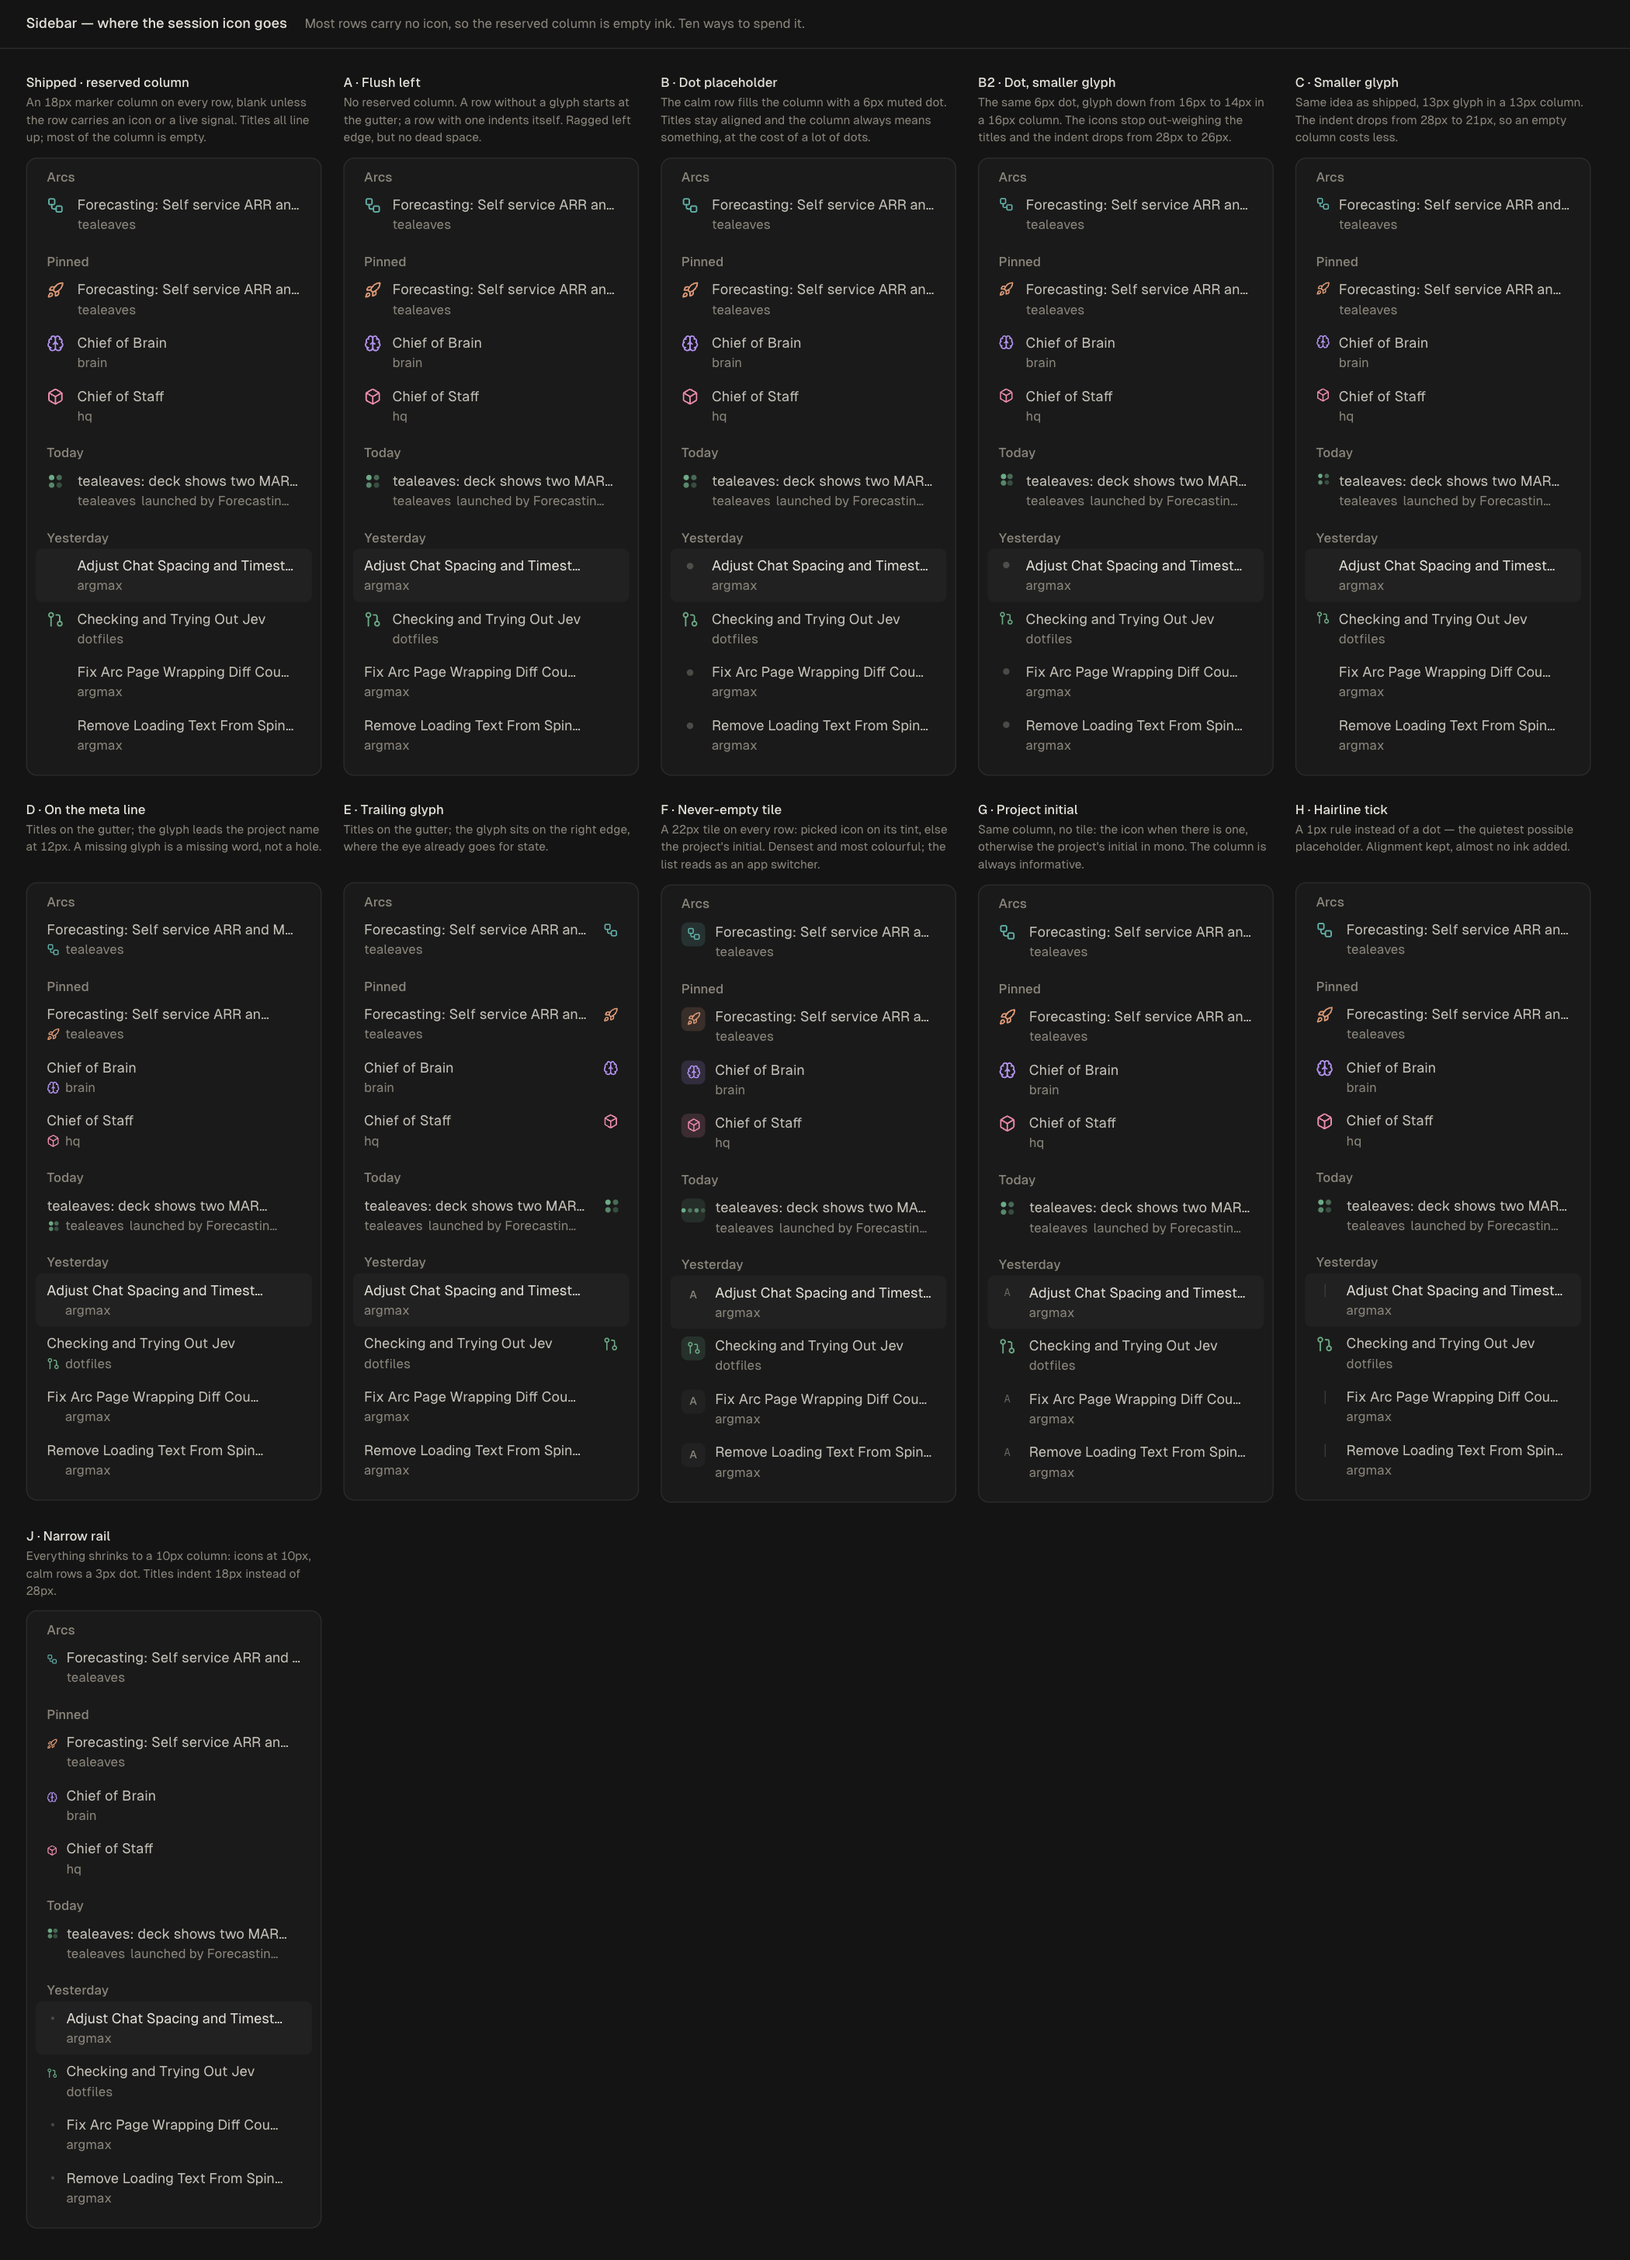
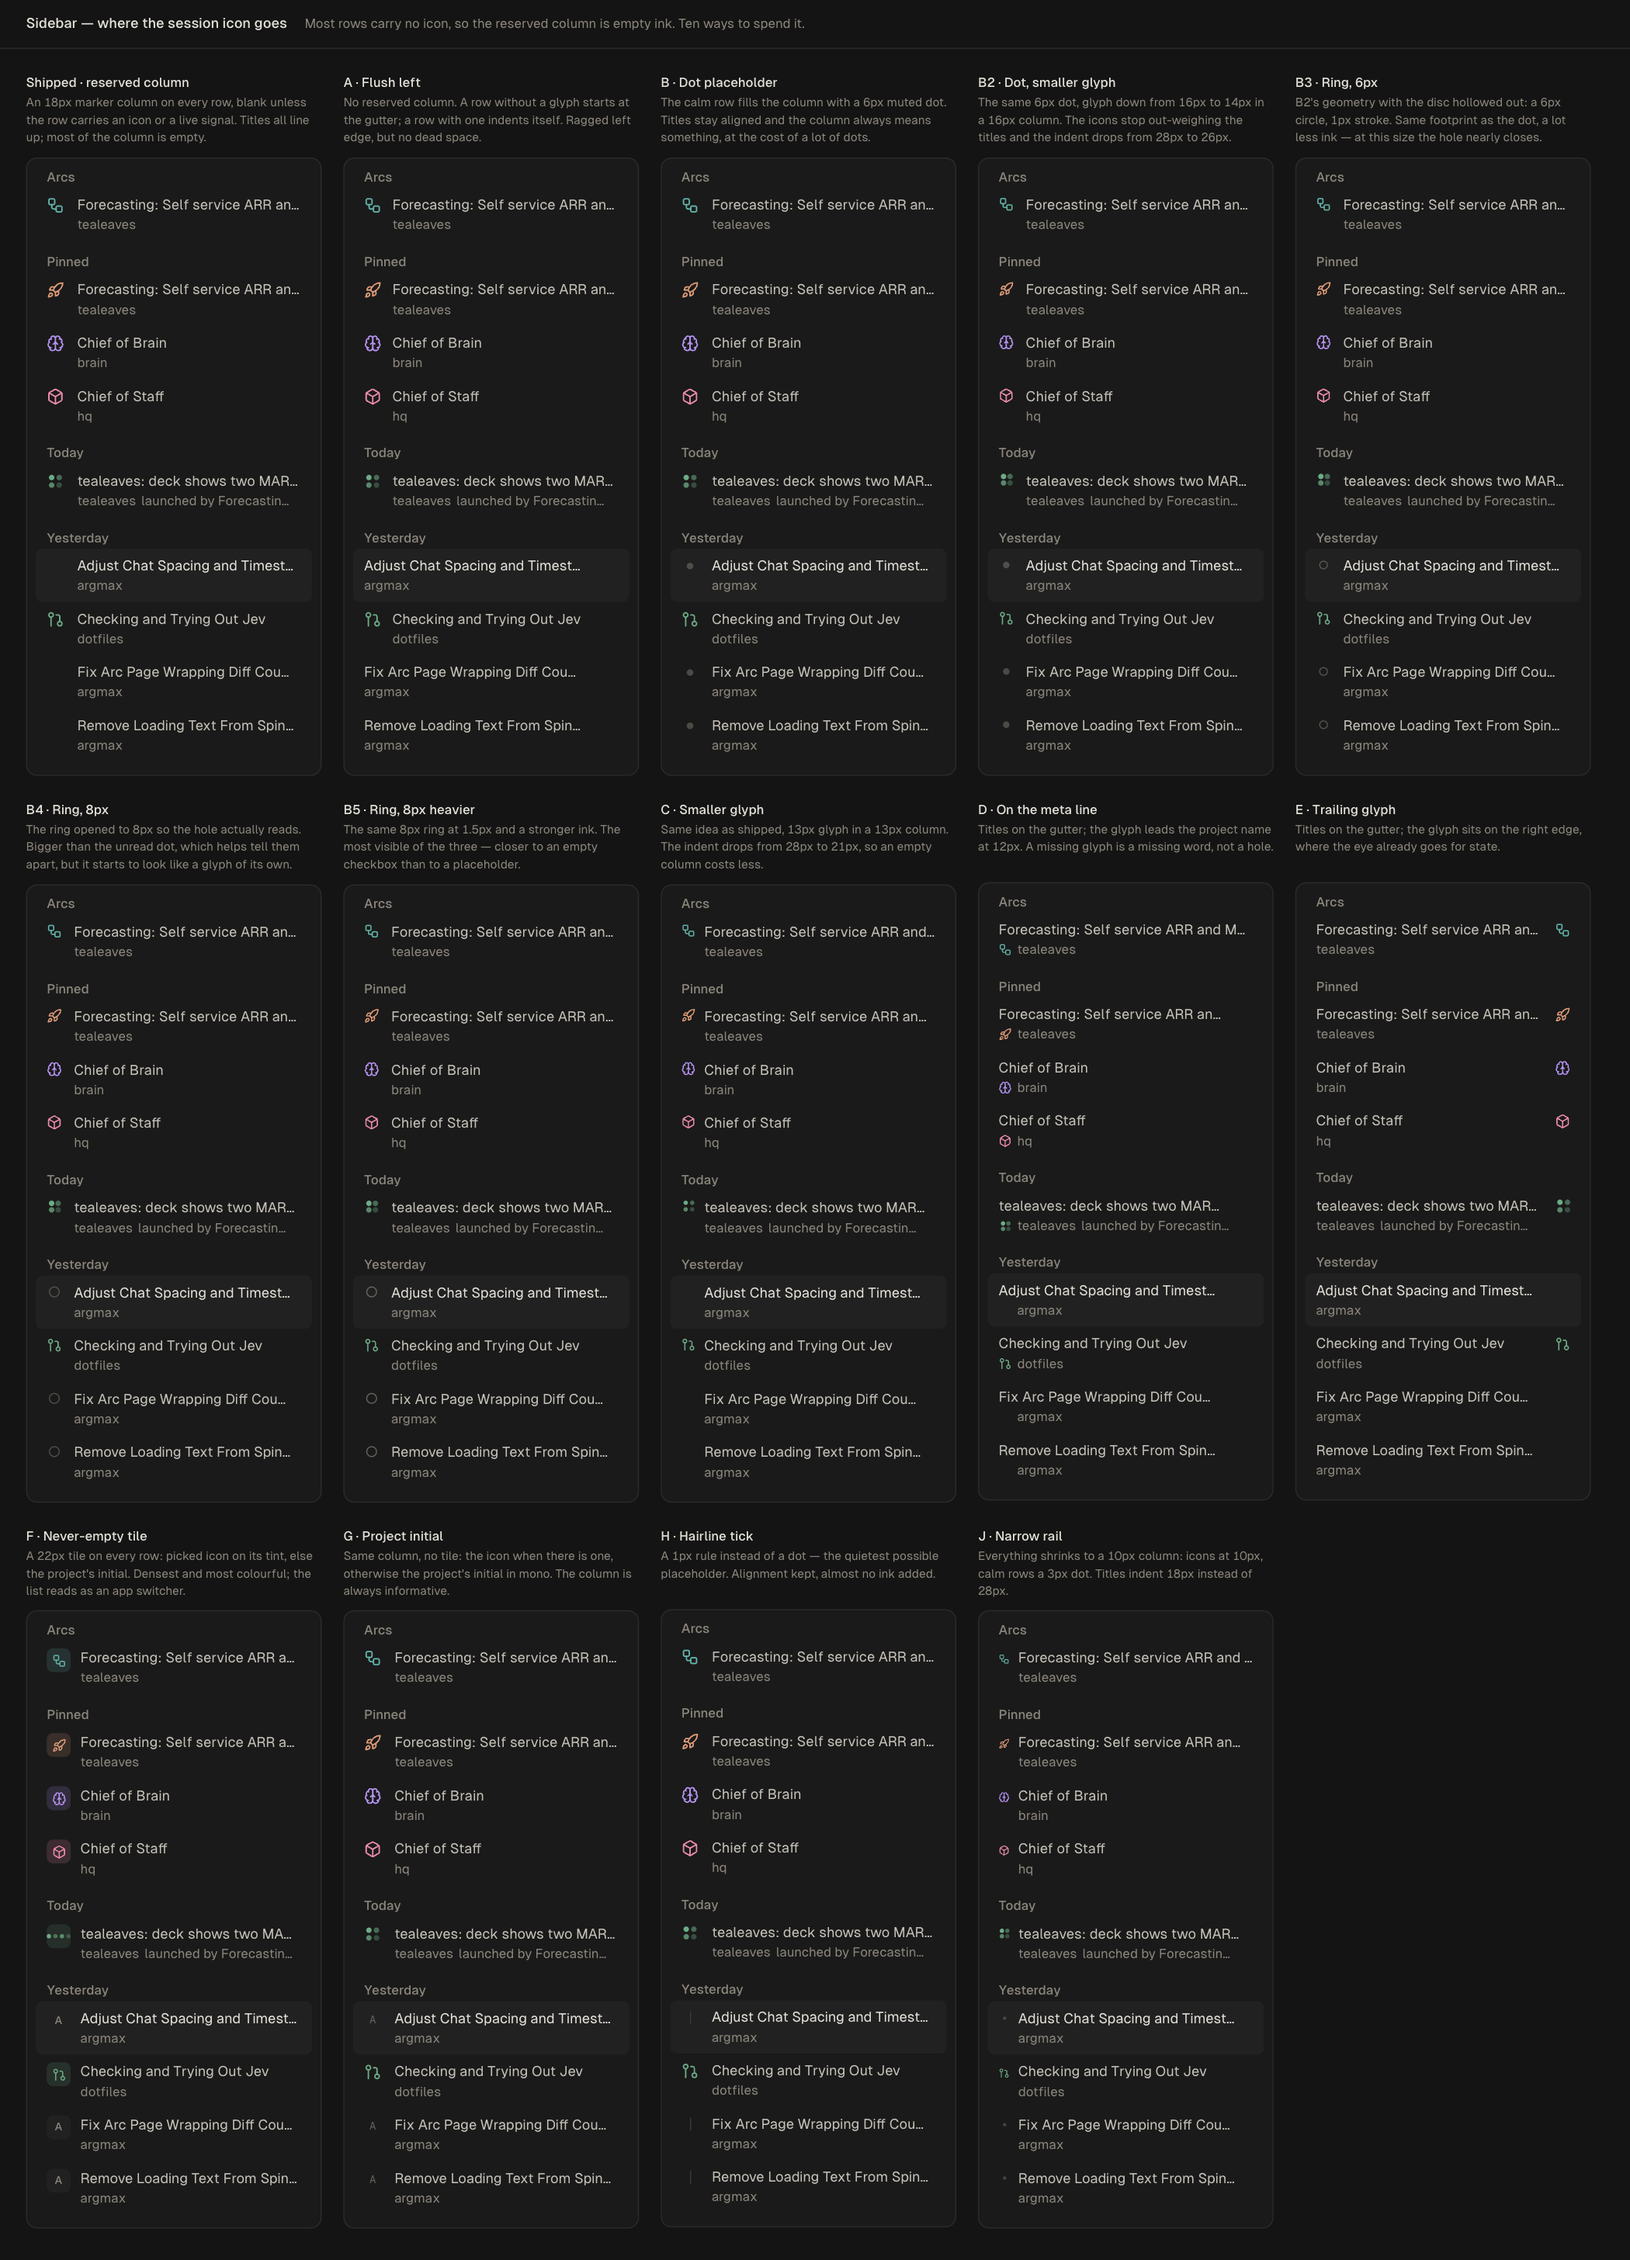
style(sidebar): draw the calm row's placeholder as a ring, not a dot
The filled 6px dot that shipped an hour ago is the unread marker's exact
shape, so a calm row and "a response landed here" were separated only by
tint. The placeholder is now an 8px ring with a 1px muted stroke: hollow
against filled is a difference that still reads at this size, and it frees
the unread dot to keep the accent to itself.

docs/design/sidebar-icon-gutter carries the three ring weights the 8px one
was picked from.

diff --git a/docs/design/sidebar-icon-gutter/index.html b/docs/design/sidebar-icon-gutter/index.html
@@ -96,6 +96,25 @@
         background: var(--muted); opacity: 0.45;
       }
 
+      /* ---------- B3/B4/B5 · the placeholder as a ring, not a disc ----------
+         All three run B2's geometry (14px glyph, 16px column); only the mark
+         in the calm cell changes. A ring is hollow, so it reads as "nothing
+         here yet" rather than as the filled accent dot unread already owns. */
+      .v-ring1 .row, .v-ring2 .row, .v-ring3 .row { grid-template-columns: 16px minmax(0, 1fr); gap: 9px; }
+      .v-ring1 .lead, .v-ring2 .lead, .v-ring3 .lead { width: 14px; height: 14px; }
+      .v-ring1 .g, .v-ring2 .g, .v-ring3 .g { width: 14px; height: 14px; }
+      .v-ring1 .nest, .v-ring2 .nest, .v-ring3 .nest {
+        grid-template-columns: 5px 5px; grid-template-rows: 5px 5px; gap: 1px;
+      }
+      .v-ring1 .lead:empty::before,
+      .v-ring2 .lead:empty::before,
+      .v-ring3 .lead:empty::before {
+        content: ""; border-radius: 50%; border-style: solid; border-color: var(--muted);
+      }
+      .v-ring1 .lead:empty::before { width: 6px; height: 6px; border-width: 1px; opacity: 0.55; }
+      .v-ring2 .lead:empty::before { width: 8px; height: 8px; border-width: 1px; opacity: 0.5; }
+      .v-ring3 .lead:empty::before { width: 8px; height: 8px; border-width: 1.5px; opacity: 0.7; }
+
       /* ---------- C · smaller glyph, narrower column ---------- */
       .v-small .row { grid-template-columns: 13px minmax(0, 1fr); gap: 8px; }
       .v-small .lead { width: 13px; height: 13px; }
@@ -208,6 +227,9 @@
         ["flush", "A · Flush left", "No reserved column. A row without a glyph starts at the gutter; a row with one indents itself. Ragged left edge, but no dead space."],
         ["dot", "B · Dot placeholder", "The calm row fills the column with a 6px muted dot. Titles stay aligned and the column always means something, at the cost of a lot of dots."],
         ["dot2", "B2 · Dot, smaller glyph", "The same 6px dot, glyph down from 16px to 14px in a 16px column. The icons stop out-weighing the titles and the indent drops from 28px to 26px."],
+        ["ring1", "B3 · Ring, 6px", "B2's geometry with the disc hollowed out: a 6px circle, 1px stroke. Same footprint as the dot, a lot less ink — at this size the hole nearly closes."],
+        ["ring2", "B4 · Ring, 8px", "The ring opened to 8px so the hole actually reads. Bigger than the unread dot, which helps tell them apart, but it starts to look like a glyph of its own."],
+        ["ring3", "B5 · Ring, 8px heavier", "The same 8px ring at 1.5px and a stronger ink. The most visible of the three — closer to an empty checkbox than to a placeholder."],
         ["small", "C · Smaller glyph", "Same idea as shipped, 13px glyph in a 13px column. The indent drops from 28px to 21px, so an empty column costs less."],
         ["meta", "D · On the meta line", "Titles on the gutter; the glyph leads the project name at 12px. A missing glyph is a missing word, not a hole."],
         ["trail", "E · Trailing glyph", "Titles on the gutter; the glyph sits on the right edge, where the eye already goes for state."],

diff --git a/src/renderer/components/SidebarSessionRow.tsx b/src/renderer/components/SidebarSessionRow.tsx
@@ -435,7 +435,7 @@ function SidebarSessionRowInner({
   // leading glyph except a turn in flight: the working nest stays so live
   // activity still reads, and the accent dot takes the cell the moment it
   // ends. Opening the chat clears unread and the icon or status marker
-  // returns. Without a custom icon, a calm row draws the muted lead dot and
+  // returns. Without a custom icon, a calm row draws the muted lead ring and
   // only a live signal (running, awaiting input, failed, open or merged PR)
   // earns a glyph. The marker column is the same width either way so every
   // title lines up.
@@ -480,7 +480,7 @@ function SidebarSessionRowInner({
           className={`session-link session-link-renaming${subtitle ? " session-link-stacked" : ""}${prCountBadge ? " session-link-has-pr-count" : ""}`}
           data-status={workspace.state}
         >
-          {leadingGlyph ?? <span className="session-link-lead-dot" aria-hidden="true" />}
+          {leadingGlyph ?? <span className="session-link-lead-ring" aria-hidden="true" />}
           <span className={subtitle ? "session-link-text" : undefined}>
             <input
               ref={renameInputRef}
@@ -544,7 +544,7 @@ function SidebarSessionRowInner({
               });
             }}
           >
-            {leadingGlyph ?? <span className="session-link-lead-dot" aria-hidden="true" />}
+            {leadingGlyph ?? <span className="session-link-lead-ring" aria-hidden="true" />}
             {subtitle || importedProvider || launchedByLabel || arcLabel ? (
               <span className="session-link-text">
                 <span>{displayLabel}</span>

diff --git a/src/renderer/components/SidebarSessionRow.test.tsx b/src/renderer/components/SidebarSessionRow.test.tsx
@@ -519,7 +519,7 @@ describe("SidebarSessionRow", () => {
     expect(screen.getByLabelText("2 pull requests: 1 open · 1 merged")).toHaveTextContent("2");
   });
 
-  it("gives an idle completed row the lead dot, with the state still in its title", () => {
+  it("gives an idle completed row the lead ring, with the state still in its title", () => {
     render(
       <SidebarSessionRow
         workspace={workspaceBase}
@@ -529,11 +529,11 @@ describe("SidebarSessionRow", () => {
 
     const row = screen.getByTitle(/Build the dashboard — complete/);
     // No status glyph: a done session is not worth a column of checks. The
-    // marker column keeps its width and draws the muted dot instead.
+    // marker column keeps its width and draws the muted ring instead.
     // `.status-marker` rather than "svg": the working nest is HTML now, so an
     // svg check would pass whether or not a mark was rendered.
     expect(row.querySelector(".status-marker")).toBeNull();
-    expect(row.querySelector(".session-link-lead-dot")).not.toBeNull();
+    expect(row.querySelector(".session-link-lead-ring")).not.toBeNull();
   });
 
   it("keeps a leading marker on rows that carry a live signal", () => {

diff --git a/src/renderer/styles/shell-sessions.css b/src/renderer/styles/shell-sessions.css
@@ -84,24 +84,25 @@
 }
 
 /* Calm rows have no live signal and no picked icon, so they fill the marker
-   column with a dot instead: the column always carries a mark, and every title
-   in the list starts at the same x. Muted and half-strength on purpose — the
-   unread marker below is the same 6px circle in the accent, and this must not
-   be mistaken for it. */
-.session-link-lead-dot {
+   column with a ring instead: the column always carries a mark, and every title
+   in the list starts at the same x. Hollow on purpose. The unread marker below
+   is a filled 6px circle in the accent, and a ring cannot be mistaken for it —
+   the difference is categorical rather than a matter of tint, which is what
+   holds up at 8px. */
+.session-link-lead-ring {
   display: grid;
   place-items: center;
   width: 14px;
   height: 18px;
 }
 
-.session-link-lead-dot::before {
+.session-link-lead-ring::before {
   content: "";
-  width: 6px;
-  height: 6px;
+  width: 8px;
+  height: 8px;
+  border: 1px solid var(--muted);
   border-radius: 50%;
-  background: var(--muted);
-  opacity: 0.45;
+  opacity: 0.5;
 }
 
 .session-unread-marker {

diff --git a/docs/design/sidebar-icon-gutter/README.md b/docs/design/sidebar-icon-gutter/README.md
@@ -28,6 +28,10 @@ PR, five calm rows.
   Alignment kept; the list gains a column of dots.
 - **B2 · Dot, smaller glyph** — the same dot with the glyph at 14px in a 16px
   column, so the icons stop out-weighing the titles.
+- **B3 / B4 / B5 · Ring instead of disc** — B2's geometry with the placeholder
+  hollowed out: 6px at 1px, 8px at 1px, 8px at 1.5px in a stronger ink. A ring
+  reads as "nothing here yet" and cannot be confused with the filled accent
+  dot that marks an unread response.
 - **C · Smaller glyph** — same structure at 13px, so the indent is 21px not
   28px and the empty column costs less.
 - **D · On the meta line** — titles on the gutter, the glyph leads the project
@@ -50,9 +54,10 @@ frame each at 2x.
 
 ## Decision
 
-**B2 · Dot, smaller glyph**, chosen 2026-09-20 and shipped in the same change:
-`.session-link` runs a 14px lead column with a 9px gap, every marker glyph
-dropped from 16px to 14px, and `.session-link-lead-spacer` became
-`.session-link-lead-dot` — a 6px muted circle at 45% opacity. The unread marker
-is the same circle in the accent at full strength, which is the one pair a
-future change has to keep apart.
+**B4 · Ring, 8px**, chosen 2026-09-20 and shipped: `.session-link` runs a 14px
+lead column with a 9px gap, every marker glyph dropped from 16px to 14px, and
+the old `.session-link-lead-spacer` became `.session-link-lead-ring` — an 8px
+circle, 1px `--muted` stroke, 50% opacity. B2's filled 6px dot shipped first
+and was replaced the same day: it was the same shape as the unread marker, so
+the two were separated only by tint. Hollow versus filled is the difference
+that survives at this size.
